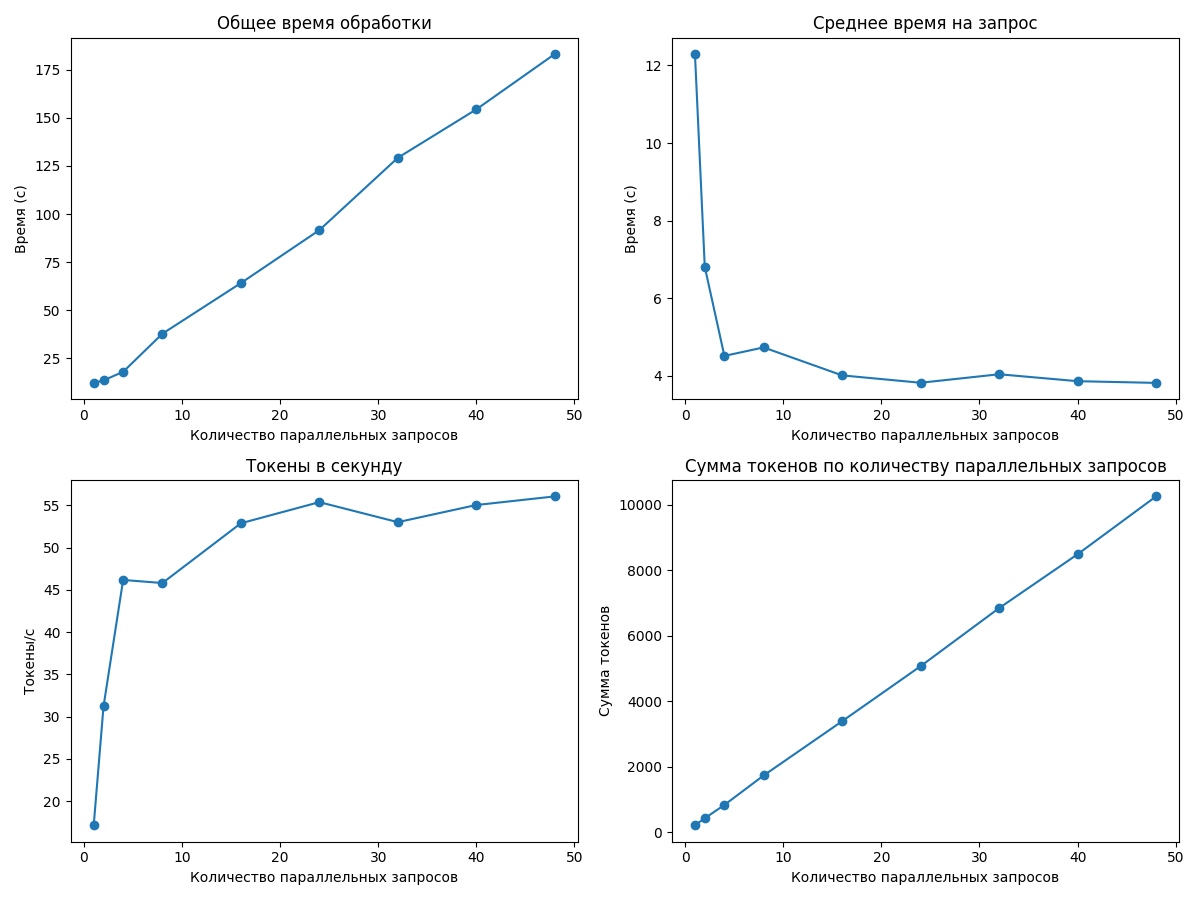
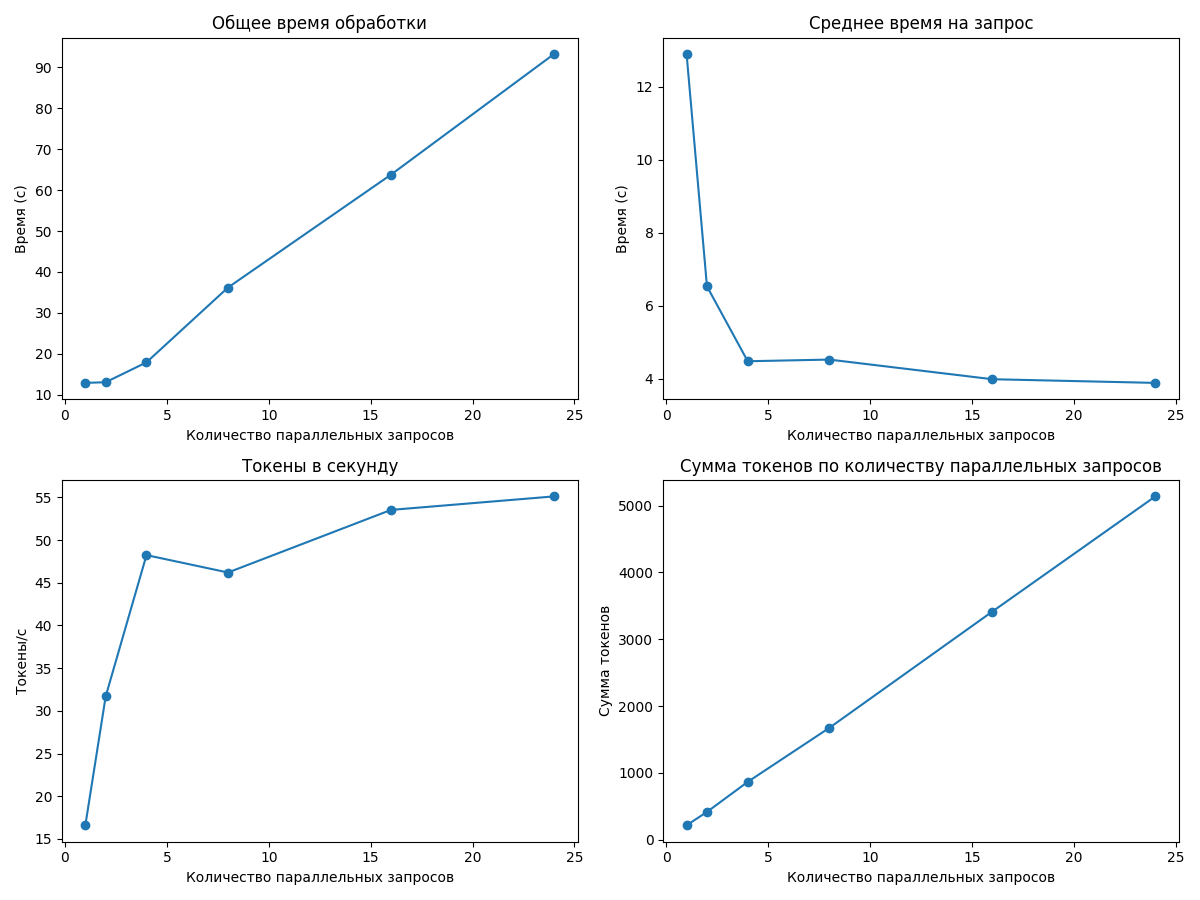
обновил отчет для gemma 3 12b

diff --git a/check_speed.py b/check_speed.py
@@ -181,62 +181,77 @@ if __name__ == "__main__":
     max_requests = 50
     
     start_time = time.time()
-    print("Запуск проверки скорости для 4 параллельных запросов (до 50 запросов)")
-    asyncio.run(main(parallels=4, max_requests=max_requests))
+    print("Запуск проверки скорости для 3 параллельных запросов (до 12 запросов)")
+    asyncio.run(main(parallels=3, max_requests=12))
     end_time = time.time()
 
-    print("Запуск проверки скорости для 6 параллельных запросов (до 50 запросов)")
     start_time = time.time()
-    asyncio.run(main(parallels=6, max_requests=max_requests))
+    print("Запуск проверки скорости для 5 параллельных запросов (до 30 запросов)")
+    asyncio.run(main(parallels=5, max_requests=30))
     end_time = time.time()
 
-    print("Запуск проверки скорости для 8 параллельных запросов (до 30 запросов)")
     start_time = time.time()
-    asyncio.run(main(parallels=8, max_requests=max_requests))
+    print("Запуск проверки скорости для 6 параллельных запросов (до 30 запросов)")
+    asyncio.run(main(parallels=6, max_requests=30))
     end_time = time.time()
 
-    print("Запуск проверки скорости для 10 параллельных запросов (до 30 запросов)")
-    start_time = time.time()
-    asyncio.run(main(parallels=10, max_requests=max_requests))
-    end_time = time.time()
+    # start_time = time.time()
+    # print("Запуск проверки скорости для 4 параллельных запросов (до 50 запросов)")
+    # asyncio.run(main(parallels=4, max_requests=max_requests))
+    # end_time = time.time()
 
-    print("Запуск проверки скорости для 12 параллельных запросов (до 30 запросов)")
-    start_time = time.time()
-    asyncio.run(main(parallels=12, max_requests=max_requests))
-    end_time = time.time()
-    print(f"Завершено за {(end_time - start_time):.2f} секунд")
+    # print("Запуск проверки скорости для 6 параллельных запросов (до 50 запросов)")
+    # start_time = time.time()
+    # asyncio.run(main(parallels=6, max_requests=max_requests))
+    # end_time = time.time()
+
+    # print("Запуск проверки скорости для 8 параллельных запросов (до 30 запросов)")
+    # start_time = time.time()
+    # asyncio.run(main(parallels=8, max_requests=max_requests))
+    # end_time = time.time()
+
+    # print("Запуск проверки скорости для 10 параллельных запросов (до 30 запросов)")
+    # start_time = time.time()
+    # asyncio.run(main(parallels=10, max_requests=max_requests))
+    # end_time = time.time()
+
+    # print("Запуск проверки скорости для 12 параллельных запросов (до 30 запросов)")
+    # start_time = time.time()
+    # asyncio.run(main(parallels=12, max_requests=max_requests))
+    # end_time = time.time()
+    # print(f"Завершено за {(end_time - start_time):.2f} секунд")
     
-    start_time = time.time()
-    print("Запуск проверки скорости для 15 параллельных запросов (до 30 запросов)")
-    asyncio.run(main(parallels=15, max_requests=max_requests))
-    end_time = time.time()
-    print(f"Завершено за {(end_time - start_time):.2f} секунд")
+    # start_time = time.time()
+    # print("Запуск проверки скорости для 15 параллельных запросов (до 30 запросов)")
+    # asyncio.run(main(parallels=15, max_requests=max_requests))
+    # end_time = time.time()
+    # print(f"Завершено за {(end_time - start_time):.2f} секунд")
     
-    start_time = time.time()
-    print("Запуск проверки скорости для 20 параллельных запросов (до 30 запросов)")
-    asyncio.run(main(parallels=20, max_requests=max_requests))
-    end_time = time.time()
-    print(f"Завершено за {(end_time - start_time):.2f} секунд")
+    # start_time = time.time()
+    # print("Запуск проверки скорости для 20 параллельных запросов (до 30 запросов)")
+    # asyncio.run(main(parallels=20, max_requests=max_requests))
+    # end_time = time.time()
+    # print(f"Завершено за {(end_time - start_time):.2f} секунд")
 
-    start_time = time.time()
-    print("Запуск проверки скорости для 18 параллельных запросов (до 30 запросов)")
-    asyncio.run(main(parallels=18, max_requests=max_requests))
-    end_time = time.time()
-    print(f"Завершено за {(end_time - start_time):.2f} секунд")
-
-
-    start_time = time.time()
-    print("Запуск проверки скорости для 22 параллельных запросов (до 30 запросов)")
-    asyncio.run(main(parallels=22, max_requests=max_requests))
-    end_time = time.time()
-    print(f"Завершено за {(end_time - start_time):.2f} секунд")
+    # start_time = time.time()
+    # print("Запуск проверки скорости для 18 параллельных запросов (до 30 запросов)")
+    # asyncio.run(main(parallels=18, max_requests=max_requests))
+    # end_time = time.time()
+    # print(f"Завершено за {(end_time - start_time):.2f} секунд")
 
 
-    start_time = time.time()
-    print("Запуск проверки скорости для 24 параллельных запросов (до 30 запросов)")
-    asyncio.run(main(parallels=24, max_requests=max_requests))
-    end_time = time.time()
-    print(f"Завершено за {(end_time - start_time):.2f} секунд")
+    # start_time = time.time()
+    # print("Запуск проверки скорости для 22 параллельных запросов (до 30 запросов)")
+    # asyncio.run(main(parallels=22, max_requests=max_requests))
+    # end_time = time.time()
+    # print(f"Завершено за {(end_time - start_time):.2f} секунд")
+
+
+    # start_time = time.time()
+    # print("Запуск проверки скорости для 24 параллельных запросов (до 30 запросов)")
+    # asyncio.run(main(parallels=24, max_requests=max_requests))
+    # end_time = time.time()
+    # print(f"Завершено за {(end_time - start_time):.2f} секунд")
 
 
 

diff --git a/generate_report.py b/generate_report.py
@@ -12,10 +12,13 @@
 
 
 import os
+from dotenv import load_dotenv
 import pandas as pd
 import matplotlib.pyplot as plt
 import re
 from glob import glob
+
+load_dotenv()
 
 def generate_report():
     # Поиск всех файлов с результатами
@@ -39,8 +42,10 @@ def generate_report():
     # Определение абсолютно лучшей конфигурации
     best_config = all_results_df.loc[all_results_df['Максимальная скорость (токены/сек)'].idxmax()]
     
+    model = os.getenv('OPENAI_MODEL')
+    
     with open('report.md', 'w', encoding='utf-8') as report_file:
-        report_file.write('# Отчет о производительности\n\n')
+        report_file.write(f'# Отчет о производительности для {model}\n\n')
         
         report_file.write('## Итоговые выводы по всем прогонам\n\n')
         

diff --git a/report.md b/report.md
@@ -1,4 +1,4 @@
-# Отчет о производительности
+# Отчет о производительности для gemma3:12b
 
 ## Итоговые выводы по всем прогонам
 
@@ -8,8 +8,10 @@
 |---------------------:|----------------------------:|-------------------------------------:|
 |                    1 |                           4 |                              28.5308 |
 |                    2 |                           8 |                              48.571  |
+|                    3 |                           8 |                              60.9116 |
 |                    4 |                          48 |                              85.4978 |
-|                    6 |                          48 |                              56.0449 |
+|                    5 |                          24 |                              95.4248 |
+|                    6 |                          24 |                              55.1096 |
 |                    8 |                          40 |                              51.0626 |
 |                   10 |                          40 |                              39.3026 |
 |                   12 |                          48 |                              31.8703 |
@@ -17,9 +19,9 @@
 
 ### Наилучшая конфигурация для данного оборудования
 
-- **Количество workers:** 4
-- **Оптимальный размер пакета:** 48
-- **Скорость обработки:** 85.50 токенов/сек
+- **Количество workers:** 5
+- **Оптимальный размер пакета:** 24
+- **Скорость обработки:** 95.42 токенов/сек
 
 ---
 
@@ -62,6 +64,25 @@
 
 ---
 
+### Результаты для 3 параллельных запросов
+
+![График производительности для 3 параллельных запросов](results/performance_metrics_3.png)
+
+#### Таблица результатов
+
+|   Количество параллельных запросов |   Общее время (с) |   Среднее время на запрос (с) |   Токены в секунду |   Сумма токенов |
+|-----------------------------------:|------------------:|------------------------------:|-------------------:|----------------:|
+|                                  1 |           9.97728 |                       9.97728 |            21.1481 |             211 |
+|                                  2 |           9.27017 |                       4.63509 |            46.3853 |             430 |
+|                                  4 |          17.4683  |                       4.36708 |            49.4037 |             863 |
+|                                  8 |          27.6302  |                       3.45377 |            60.9116 |            1683 |
+
+**Оптимальный размер пакета:** 8
+
+**Максимальная скорость обработки:** 60.91 токенов в секунду
+
+---
+
 ### Результаты для 4 параллельных запросов
 
 ![График производительности для 4 параллельных запросов](results/performance_metrics_4.png)
@@ -86,6 +107,27 @@
 
 ---
 
+### Результаты для 5 параллельных запросов
+
+![График производительности для 5 параллельных запросов](results/performance_metrics_5.png)
+
+#### Таблица результатов
+
+|   Количество параллельных запросов |   Общее время (с) |   Среднее время на запрос (с) |   Токены в секунду |   Сумма токенов |
+|-----------------------------------:|------------------:|------------------------------:|-------------------:|----------------:|
+|                                  1 |          10.2118  |                      10.2118  |            21.6416 |             221 |
+|                                  2 |           9.12628 |                       4.56314 |            46.1305 |             421 |
+|                                  4 |          11.0346  |                       2.75864 |            77.5743 |             856 |
+|                                  8 |          20.6973  |                       2.58716 |            82.1363 |            1700 |
+|                                 16 |          39.0966  |                       2.44353 |            86.4782 |            3381 |
+|                                 24 |          52.9527  |                       2.20636 |            95.4248 |            5053 |
+
+**Оптимальный размер пакета:** 24
+
+**Максимальная скорость обработки:** 95.42 токенов в секунду
+
+---
+
 ### Результаты для 6 параллельных запросов
 
 ![График производительности для 6 параллельных запросов](results/performance_metrics_6.png)
@@ -94,19 +136,16 @@
 
 |   Количество параллельных запросов |   Общее время (с) |   Среднее время на запрос (с) |   Токены в секунду |   Сумма токенов |
 |-----------------------------------:|------------------:|------------------------------:|-------------------:|----------------:|
-|                                  1 |           12.2957 |                      12.2957  |            17.1604 |             211 |
-|                                  2 |           13.6147 |                       6.80733 |            31.2163 |             425 |
-|                                  4 |           18.043  |                       4.51074 |            46.1676 |             833 |
-|                                  8 |           37.8379 |                       4.72974 |            45.8006 |            1733 |
-|                                 16 |           64.1416 |                       4.00885 |            52.8674 |            3391 |
-|                                 24 |           91.6451 |                       3.81854 |            55.3658 |            5074 |
-|                                 32 |          129.209  |                       4.03778 |            52.9994 |            6848 |
-|                                 40 |          154.364  |                       3.85911 |            55.0257 |            8494 |
-|                                 48 |          183.121  |                       3.81502 |            56.0449 |           10263 |
+|                                  1 |           12.8927 |                      12.8927  |            16.5985 |             214 |
+|                                  2 |           13.0574 |                       6.52871 |            31.7061 |             414 |
+|                                  4 |           17.913  |                       4.47825 |            48.2331 |             864 |
+|                                  8 |           36.1924 |                       4.52405 |            46.1975 |            1672 |
+|                                 16 |           63.7798 |                       3.98624 |            53.5279 |            3414 |
+|                                 24 |           93.2505 |                       3.88544 |            55.1096 |            5139 |
 
-**Оптимальный размер пакета:** 48
+**Оптимальный размер пакета:** 24
 
-**Максимальная скорость обработки:** 56.04 токенов в секунду
+**Максимальная скорость обработки:** 55.11 токенов в секунду
 
 ---
 

diff --git a/gemma3-4b-q8/report.md b/gemma3-4b-q8/report.md
@@ -1,4 +1,4 @@
-# Отчет о производительности
+# Отчет о производительности для gemma3:4b-q8
 
 ## Итоговые выводы по всем прогонам
 
